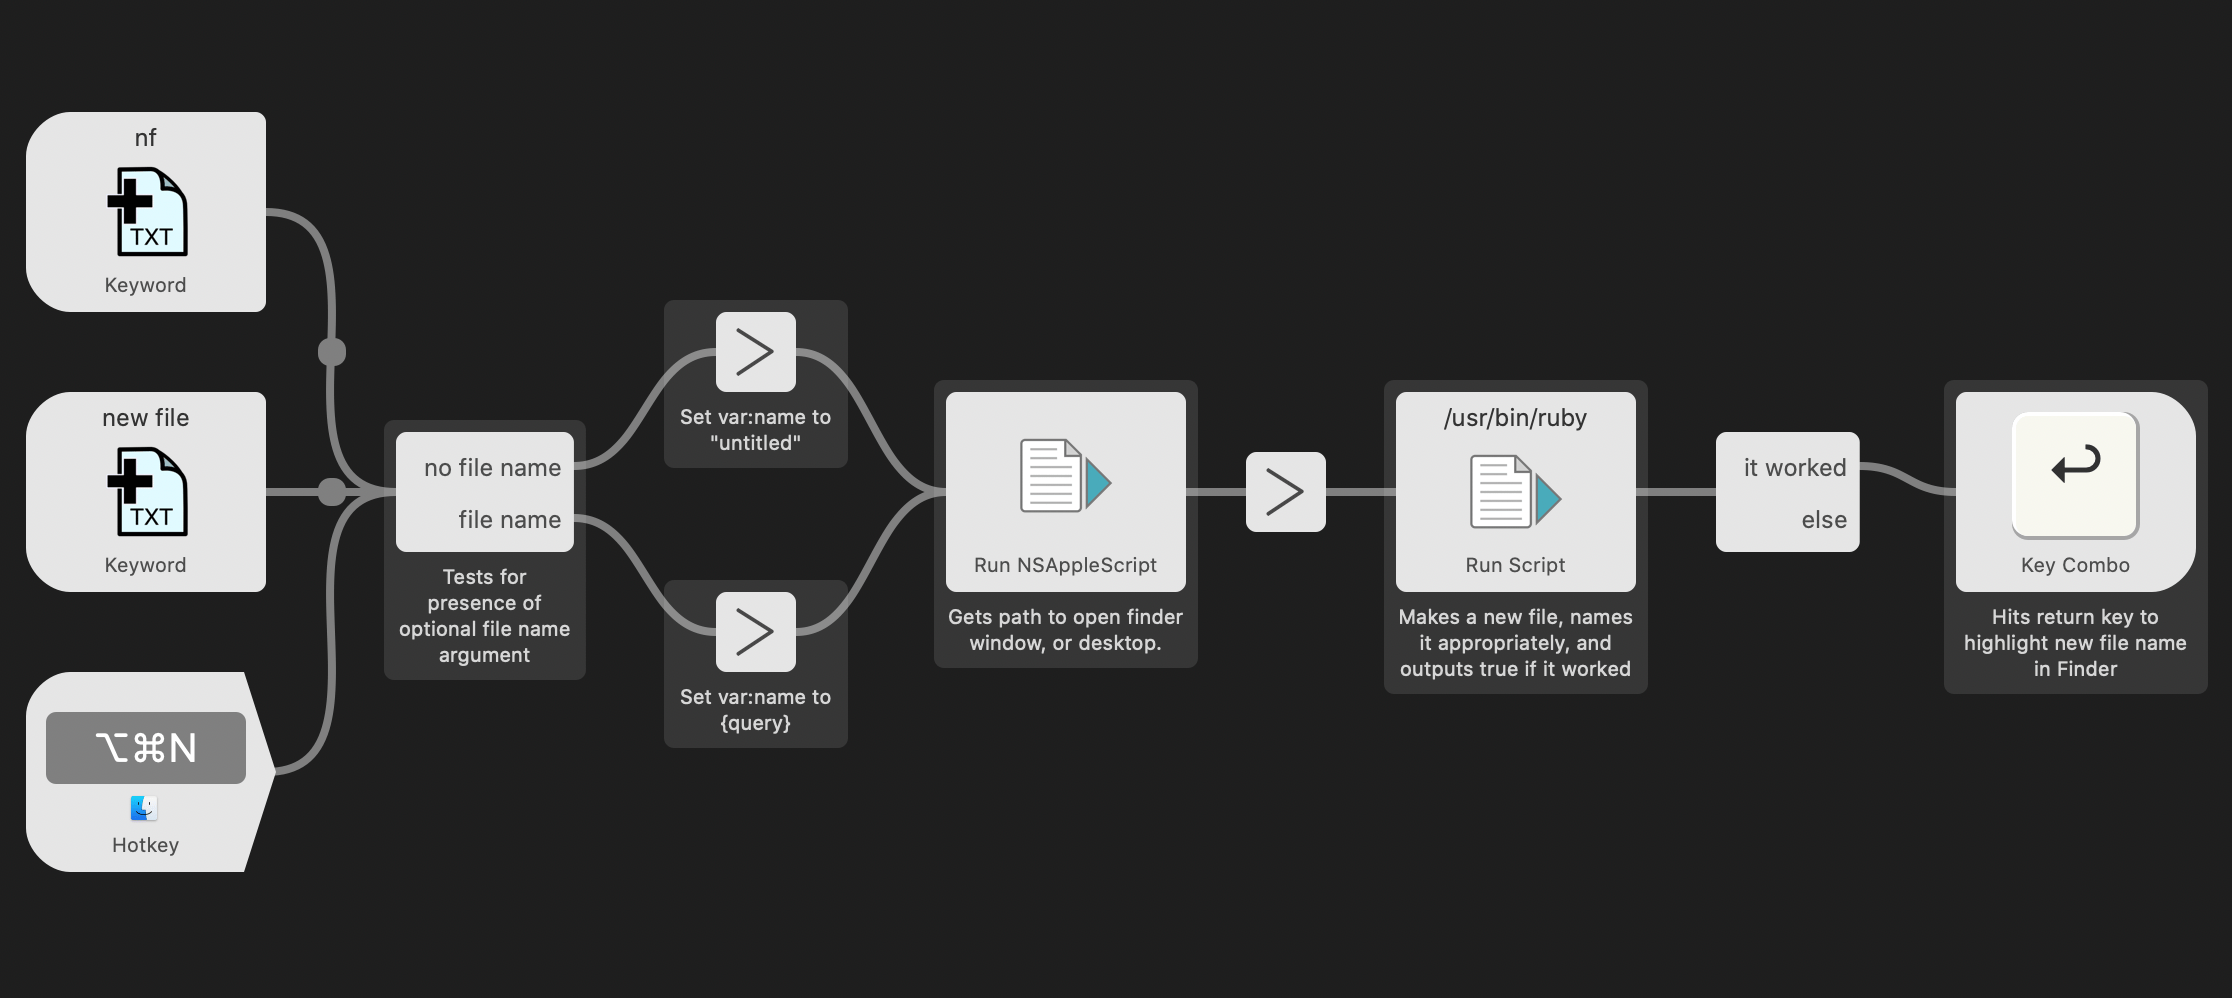
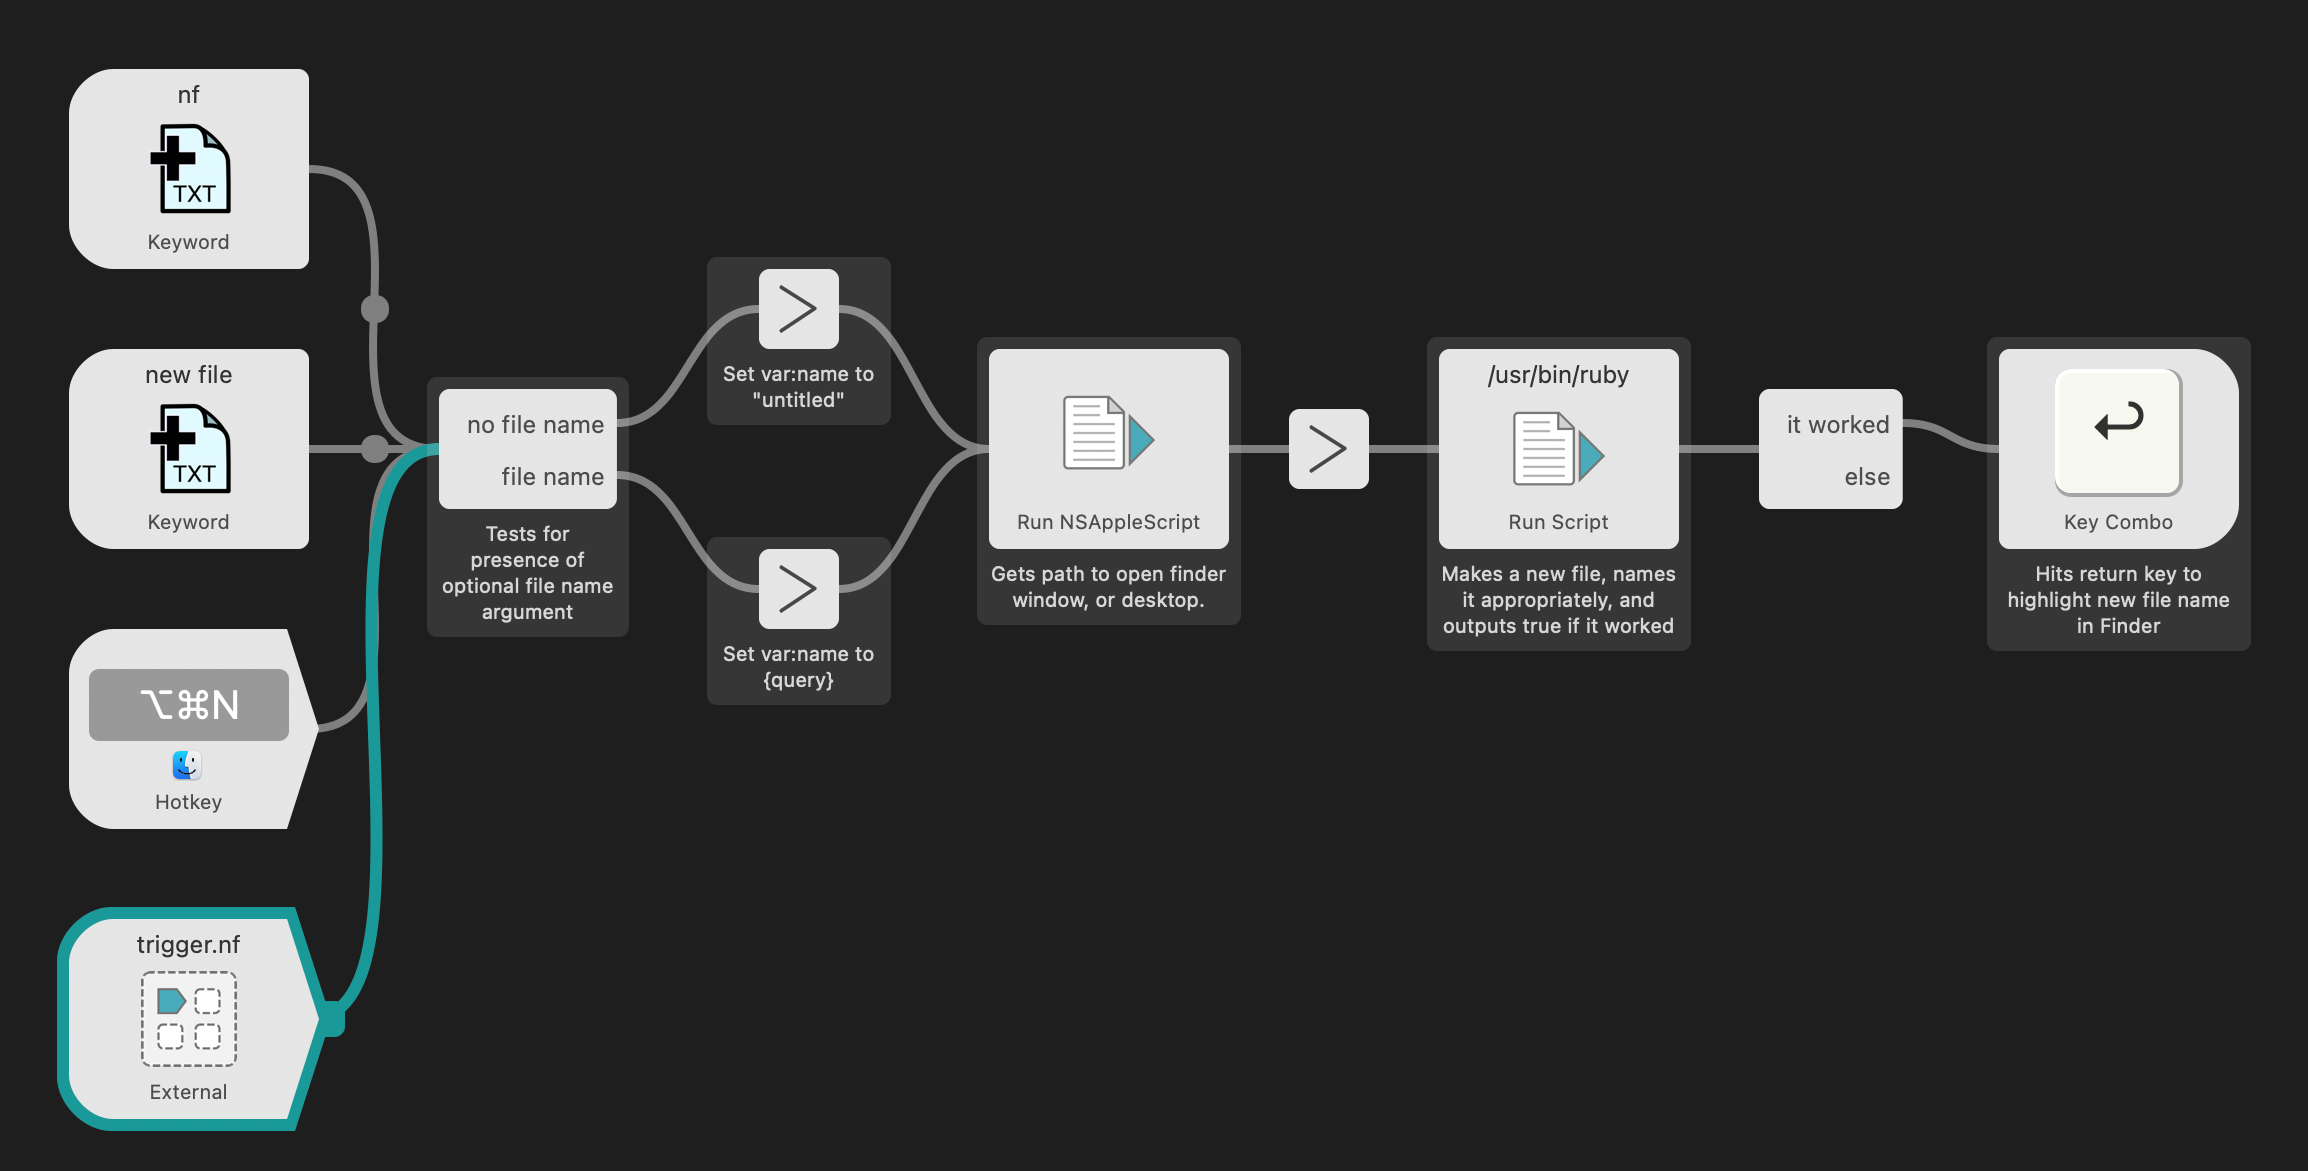
Added images reflecting the addition of the external trigger.

Changed region(s): [[0.0, 0.0311, 0.9892, 0.9629]]

diff --git a/README.md b/README.md
@@ -39,3 +39,5 @@ Hint: I used this to make an Automator Quick Action, so that I can have a button
 ![Animated Gif of the workflow in progress](nf.gif)
 
 ![Layout of workflow. ](layout.png)
+
+![Quick Action in Finder. ](quick_action.png)
